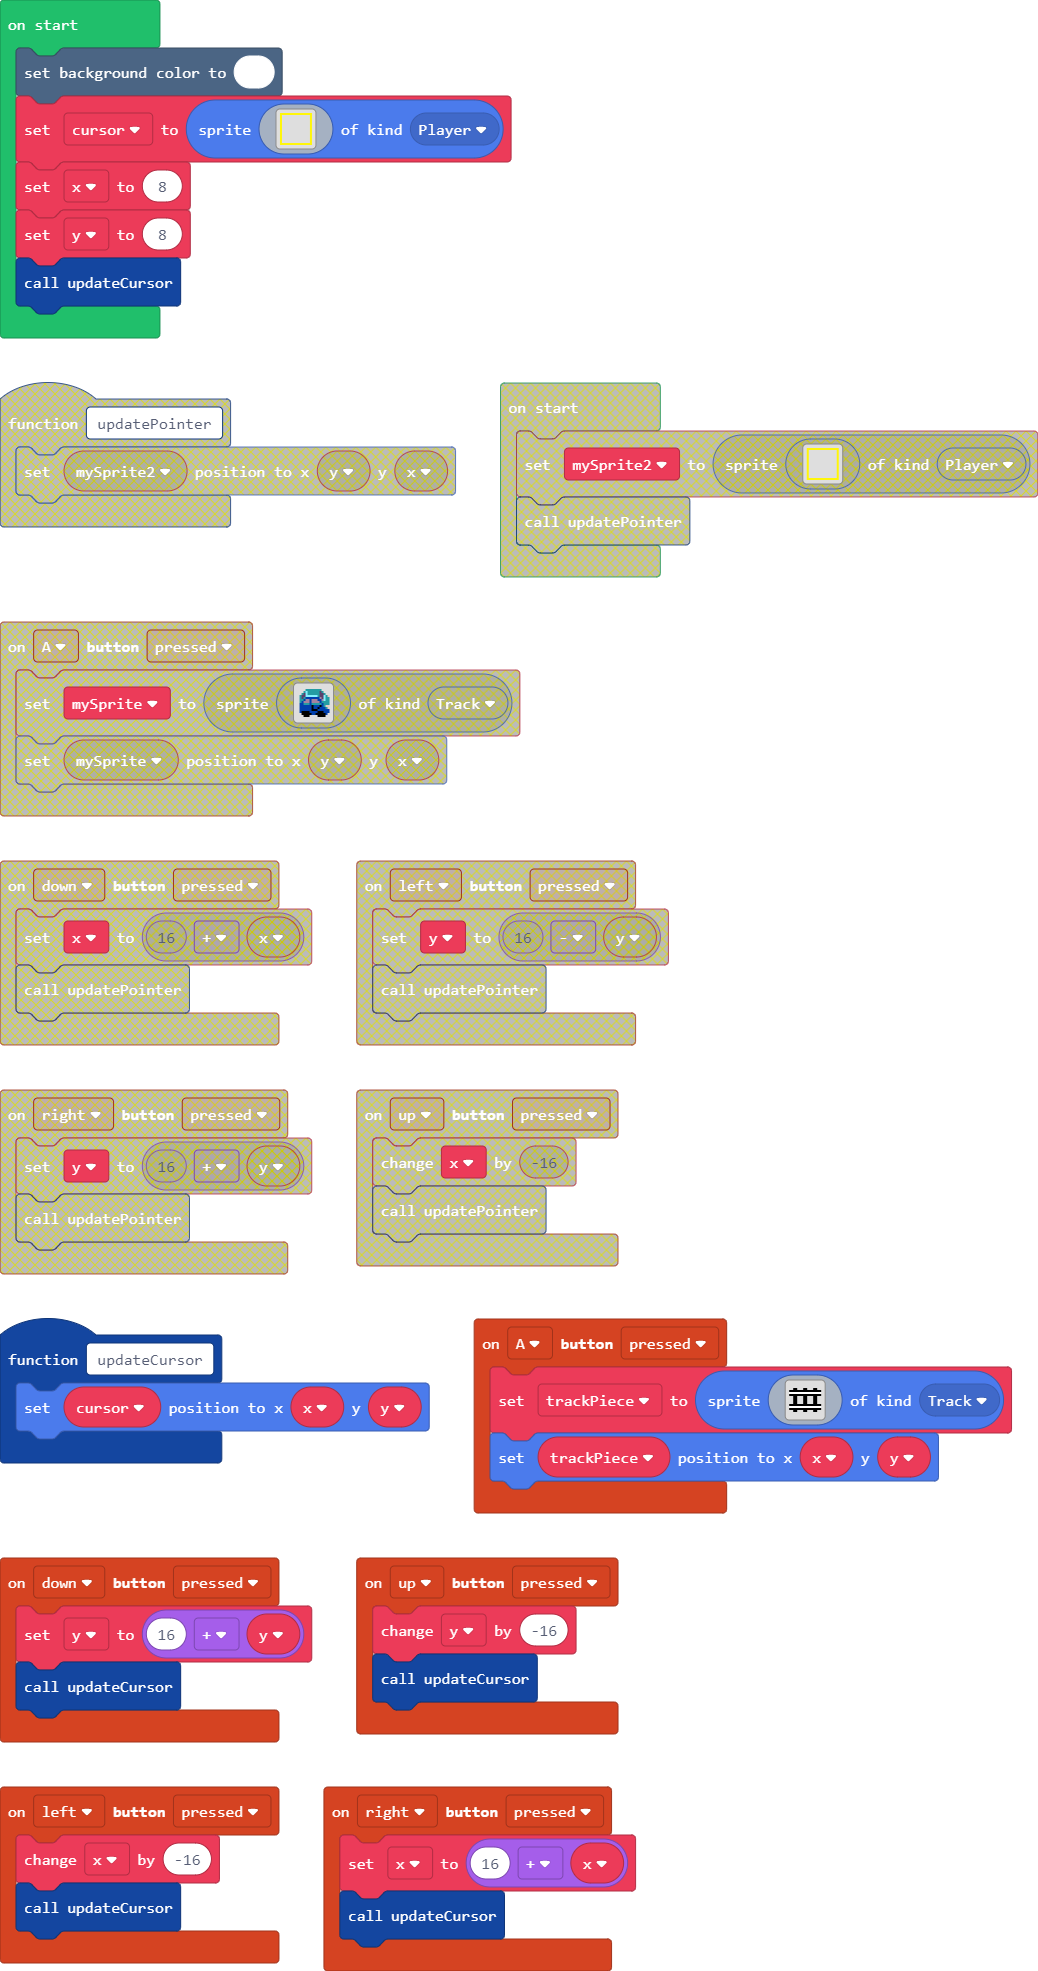
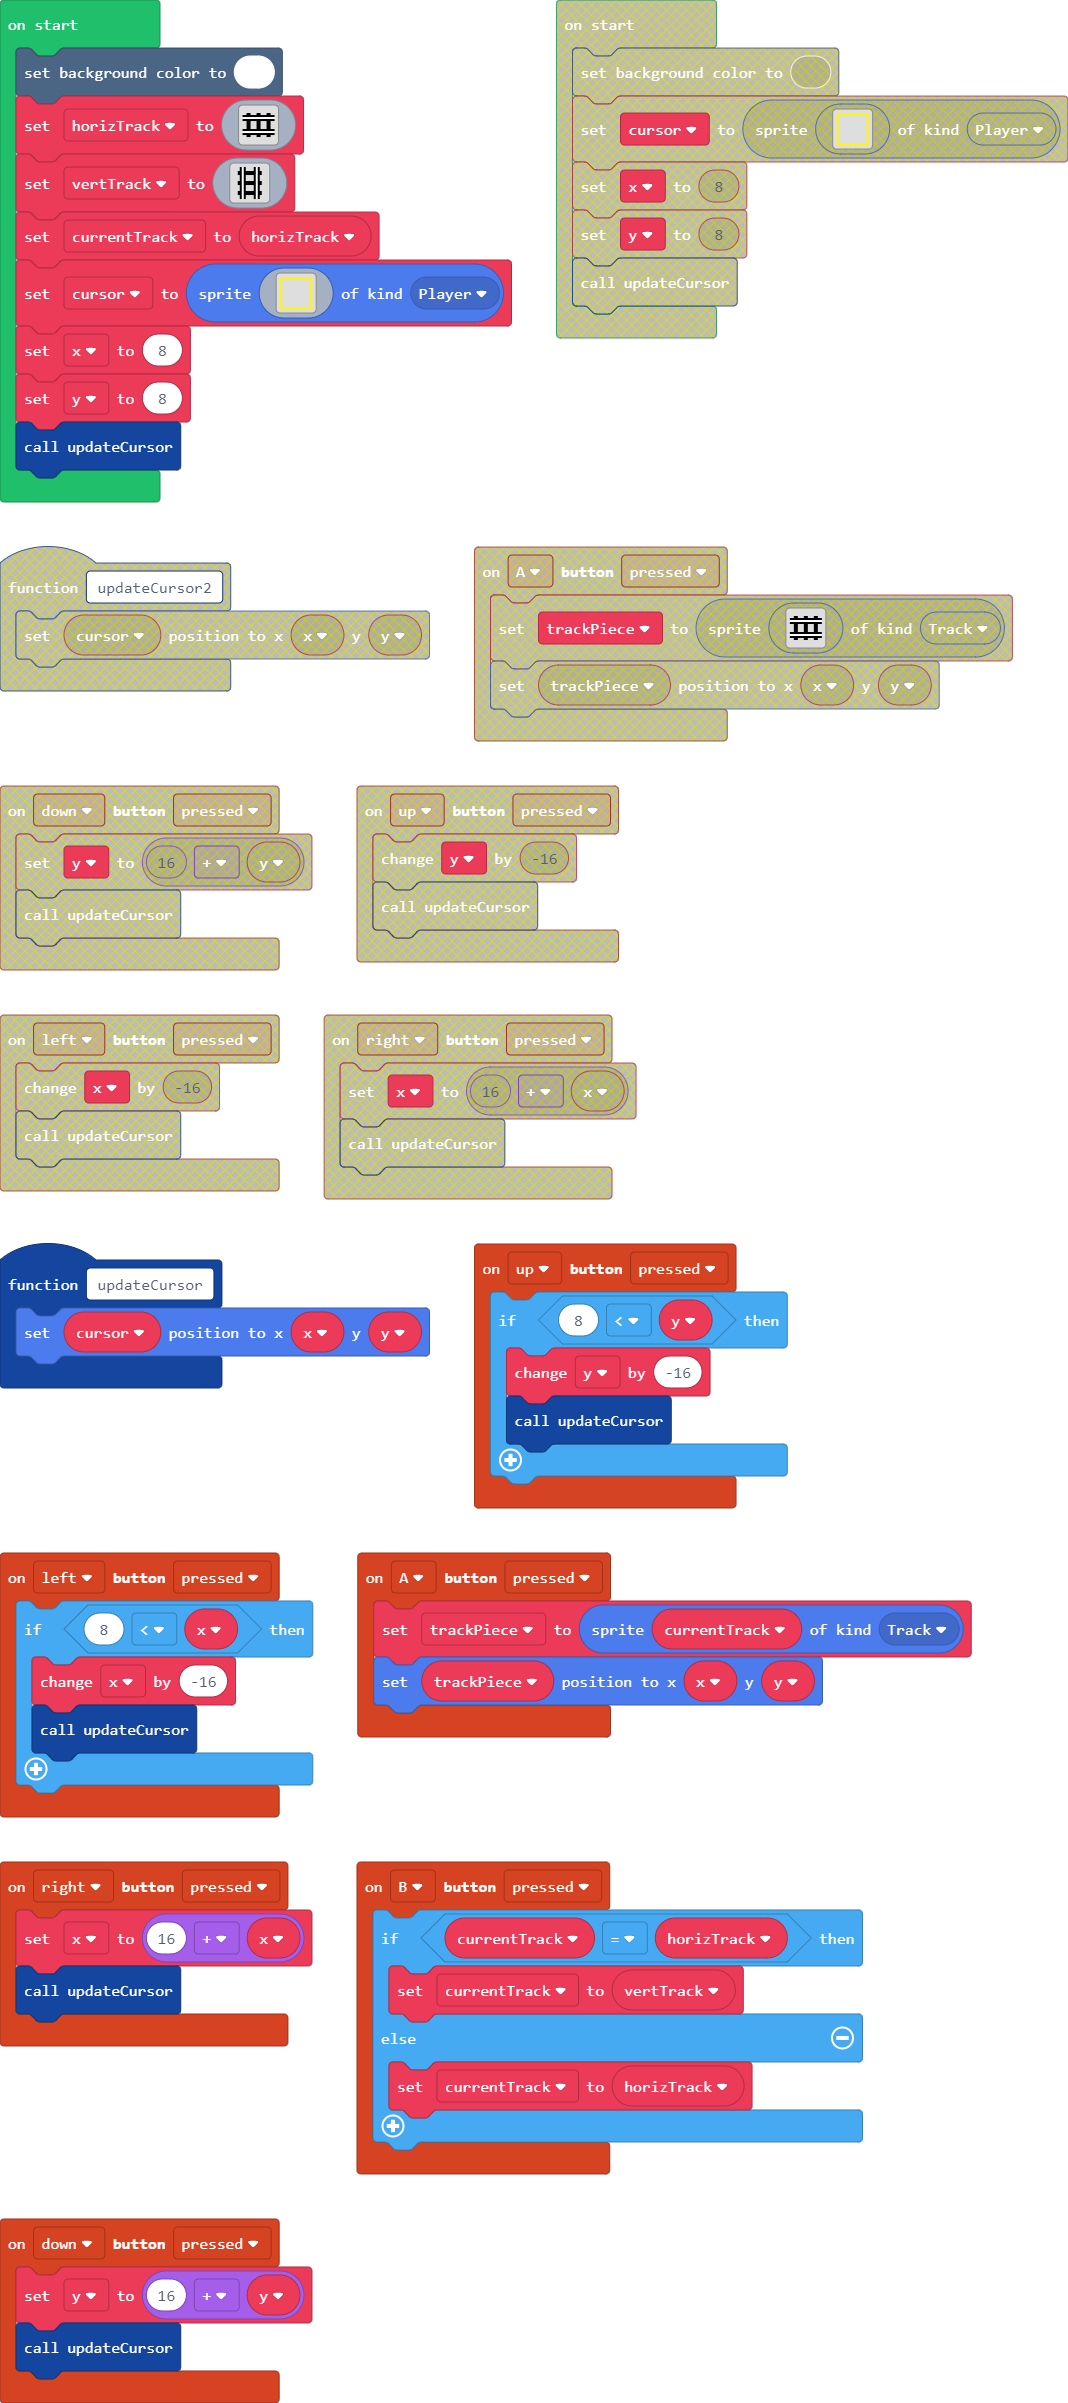
Rotating tracks

diff --git a/main.ts b/main.ts
@@ -5,32 +5,24 @@ function updateCursor () {
     cursor.setPosition(x, y)
 }
 controller.left.onEvent(ControllerButtonEvent.Pressed, function () {
-    x += -16
-    updateCursor()
+    if (8 < x) {
+        x += -16
+        updateCursor()
+    }
 })
 controller.down.onEvent(ControllerButtonEvent.Pressed, function () {
     y = 16 + y
     updateCursor()
 })
+controller.B.onEvent(ControllerButtonEvent.Pressed, function () {
+    if (currentTrack == horizTrack) {
+        currentTrack = vertTrack
+    } else {
+        currentTrack = horizTrack
+    }
+})
 controller.A.onEvent(ControllerButtonEvent.Pressed, function () {
-    trackPiece = sprites.create(img`
-. . . . . . . . . . . . . . . . 
-. . . . . . . . . . . . . . . . 
-. . f f . . . f f . . . f f . . 
-f f f f f f f f f f f f f f f f 
-1 1 1 1 1 1 1 1 1 1 1 1 1 1 1 1 
-f f f f f f f f f f f f f f f f 
-. . f f . . . f f . . . f f . . 
-. . f f . . . f f . . . f f . . 
-. . f f . . . f f . . . f f . . 
-. . f f . . . f f . . . f f . . 
-f f f f f f f f f f f f f f f f 
-1 1 1 1 1 1 1 1 1 1 1 1 1 1 1 1 
-f f f f f f f f f f f f f f f f 
-. . f f . . . f f . . . f f . . 
-. . . . . . . . . . . . . . . . 
-. . . . . . . . . . . . . . . . 
-`, SpriteKind.Track)
+    trackPiece = sprites.create(currentTrack, SpriteKind.Track)
     trackPiece.setPosition(x, y)
 })
 controller.right.onEvent(ControllerButtonEvent.Pressed, function () {
@@ -38,14 +30,56 @@ controller.right.onEvent(ControllerButtonEvent.Pressed, function () {
     updateCursor()
 })
 controller.up.onEvent(ControllerButtonEvent.Pressed, function () {
-    y += -16
-    updateCursor()
+    if (8 < y) {
+        y += -16
+        updateCursor()
+    }
 })
 let trackPiece: Sprite = null
 let y = 0
 let x = 0
 let cursor: Sprite = null
+let currentTrack: Image = null
+let vertTrack: Image = null
+let horizTrack: Image = null
 scene.setBackgroundColor(1)
+horizTrack = img`
+. . . . . . . . . . . . . . . . 
+. . . . . . . . . . . . . . . . 
+. . f f . . . f f . . . f f . . 
+f f f f f f f f f f f f f f f f 
+1 1 1 1 1 1 1 1 1 1 1 1 1 1 1 1 
+f f f f f f f f f f f f f f f f 
+. . f f . . . f f . . . f f . . 
+. . f f . . . f f . . . f f . . 
+. . f f . . . f f . . . f f . . 
+. . f f . . . f f . . . f f . . 
+f f f f f f f f f f f f f f f f 
+1 1 1 1 1 1 1 1 1 1 1 1 1 1 1 1 
+f f f f f f f f f f f f f f f f 
+. . f f . . . f f . . . f f . . 
+. . . . . . . . . . . . . . . . 
+. . . . . . . . . . . . . . . . 
+`
+vertTrack = img`
+. . . f 1 f . . . . f 1 f . . . 
+. . . f 1 f . . . . f 1 f . . . 
+. . f f 1 f f f f f f 1 f f . . 
+. . f f 1 f f f f f f 1 f f . . 
+. . . f 1 f . . . . f 1 f . . . 
+. . . f 1 f . . . . f 1 f . . . 
+. . . f 1 f . . . . f 1 f . . . 
+. . f f 1 f f f f f f 1 f f . . 
+. . f f 1 f f f f f f 1 f f . . 
+. . . f 1 f . . . . f 1 f . . . 
+. . . f 1 f . . . . f 1 f . . . 
+. . . f 1 f . . . . f 1 f . . . 
+. . f f 1 f f f f f f 1 f f . . 
+. . f f 1 f f f f f f 1 f f . . 
+. . . f 1 f . . . . f 1 f . . . 
+. . . f 1 f . . . . f 1 f . . . 
+`
+currentTrack = horizTrack
 cursor = sprites.create(img`
 5 5 5 5 5 5 5 5 5 5 5 5 5 5 5 5 
 5 . . . . . . . . . . . . . . 5 
